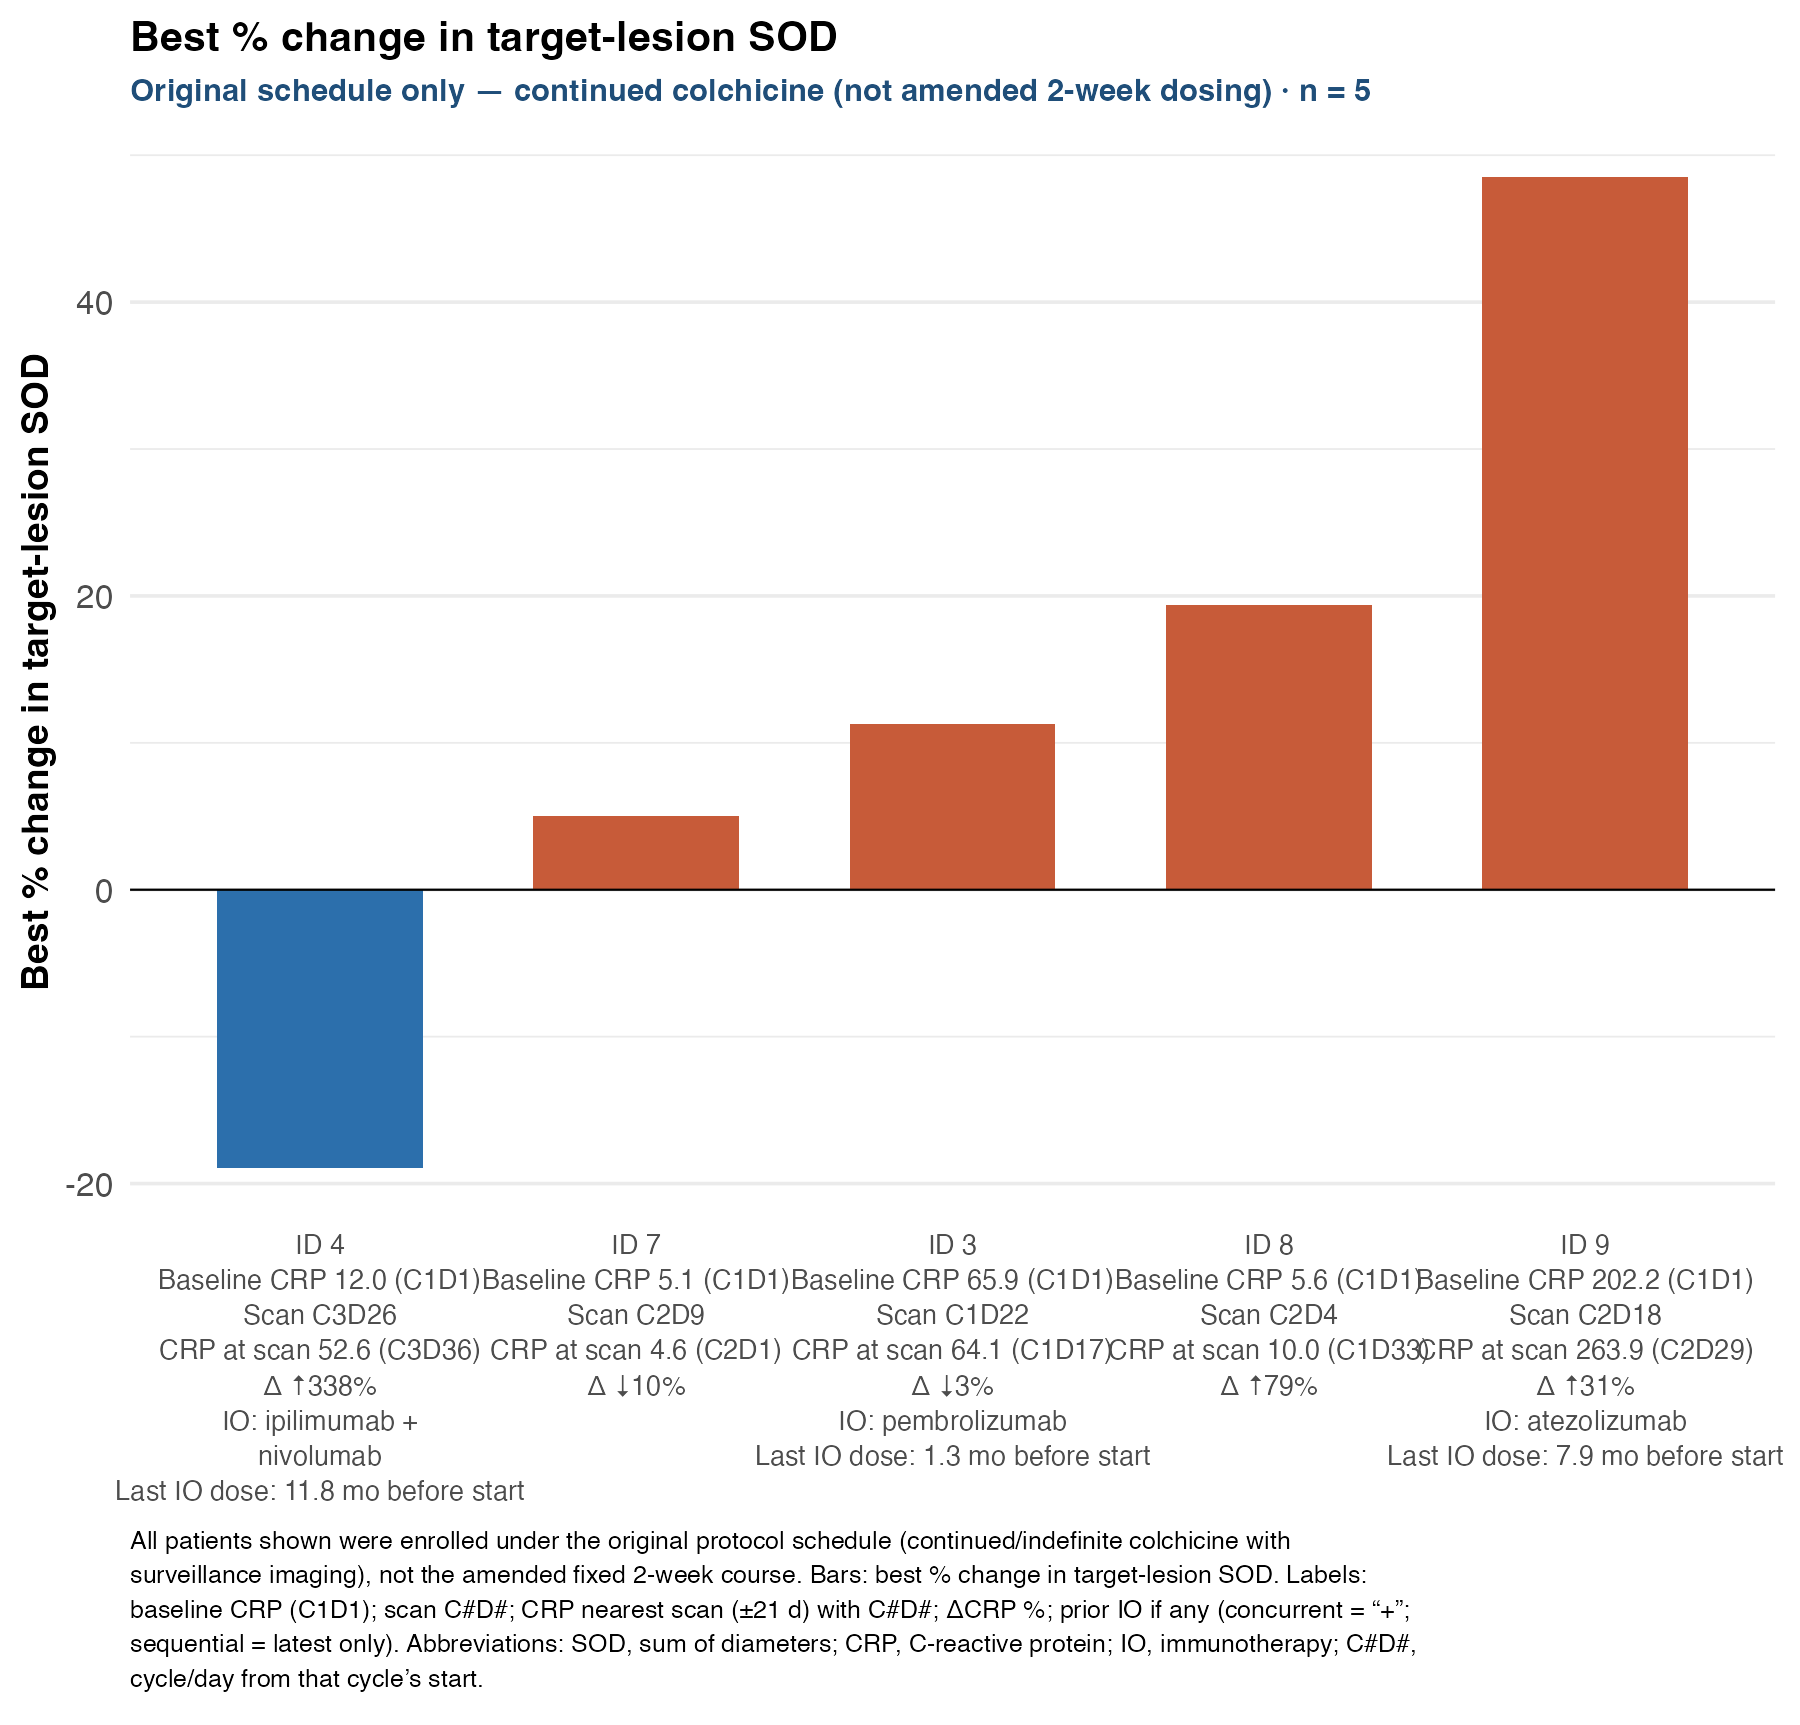
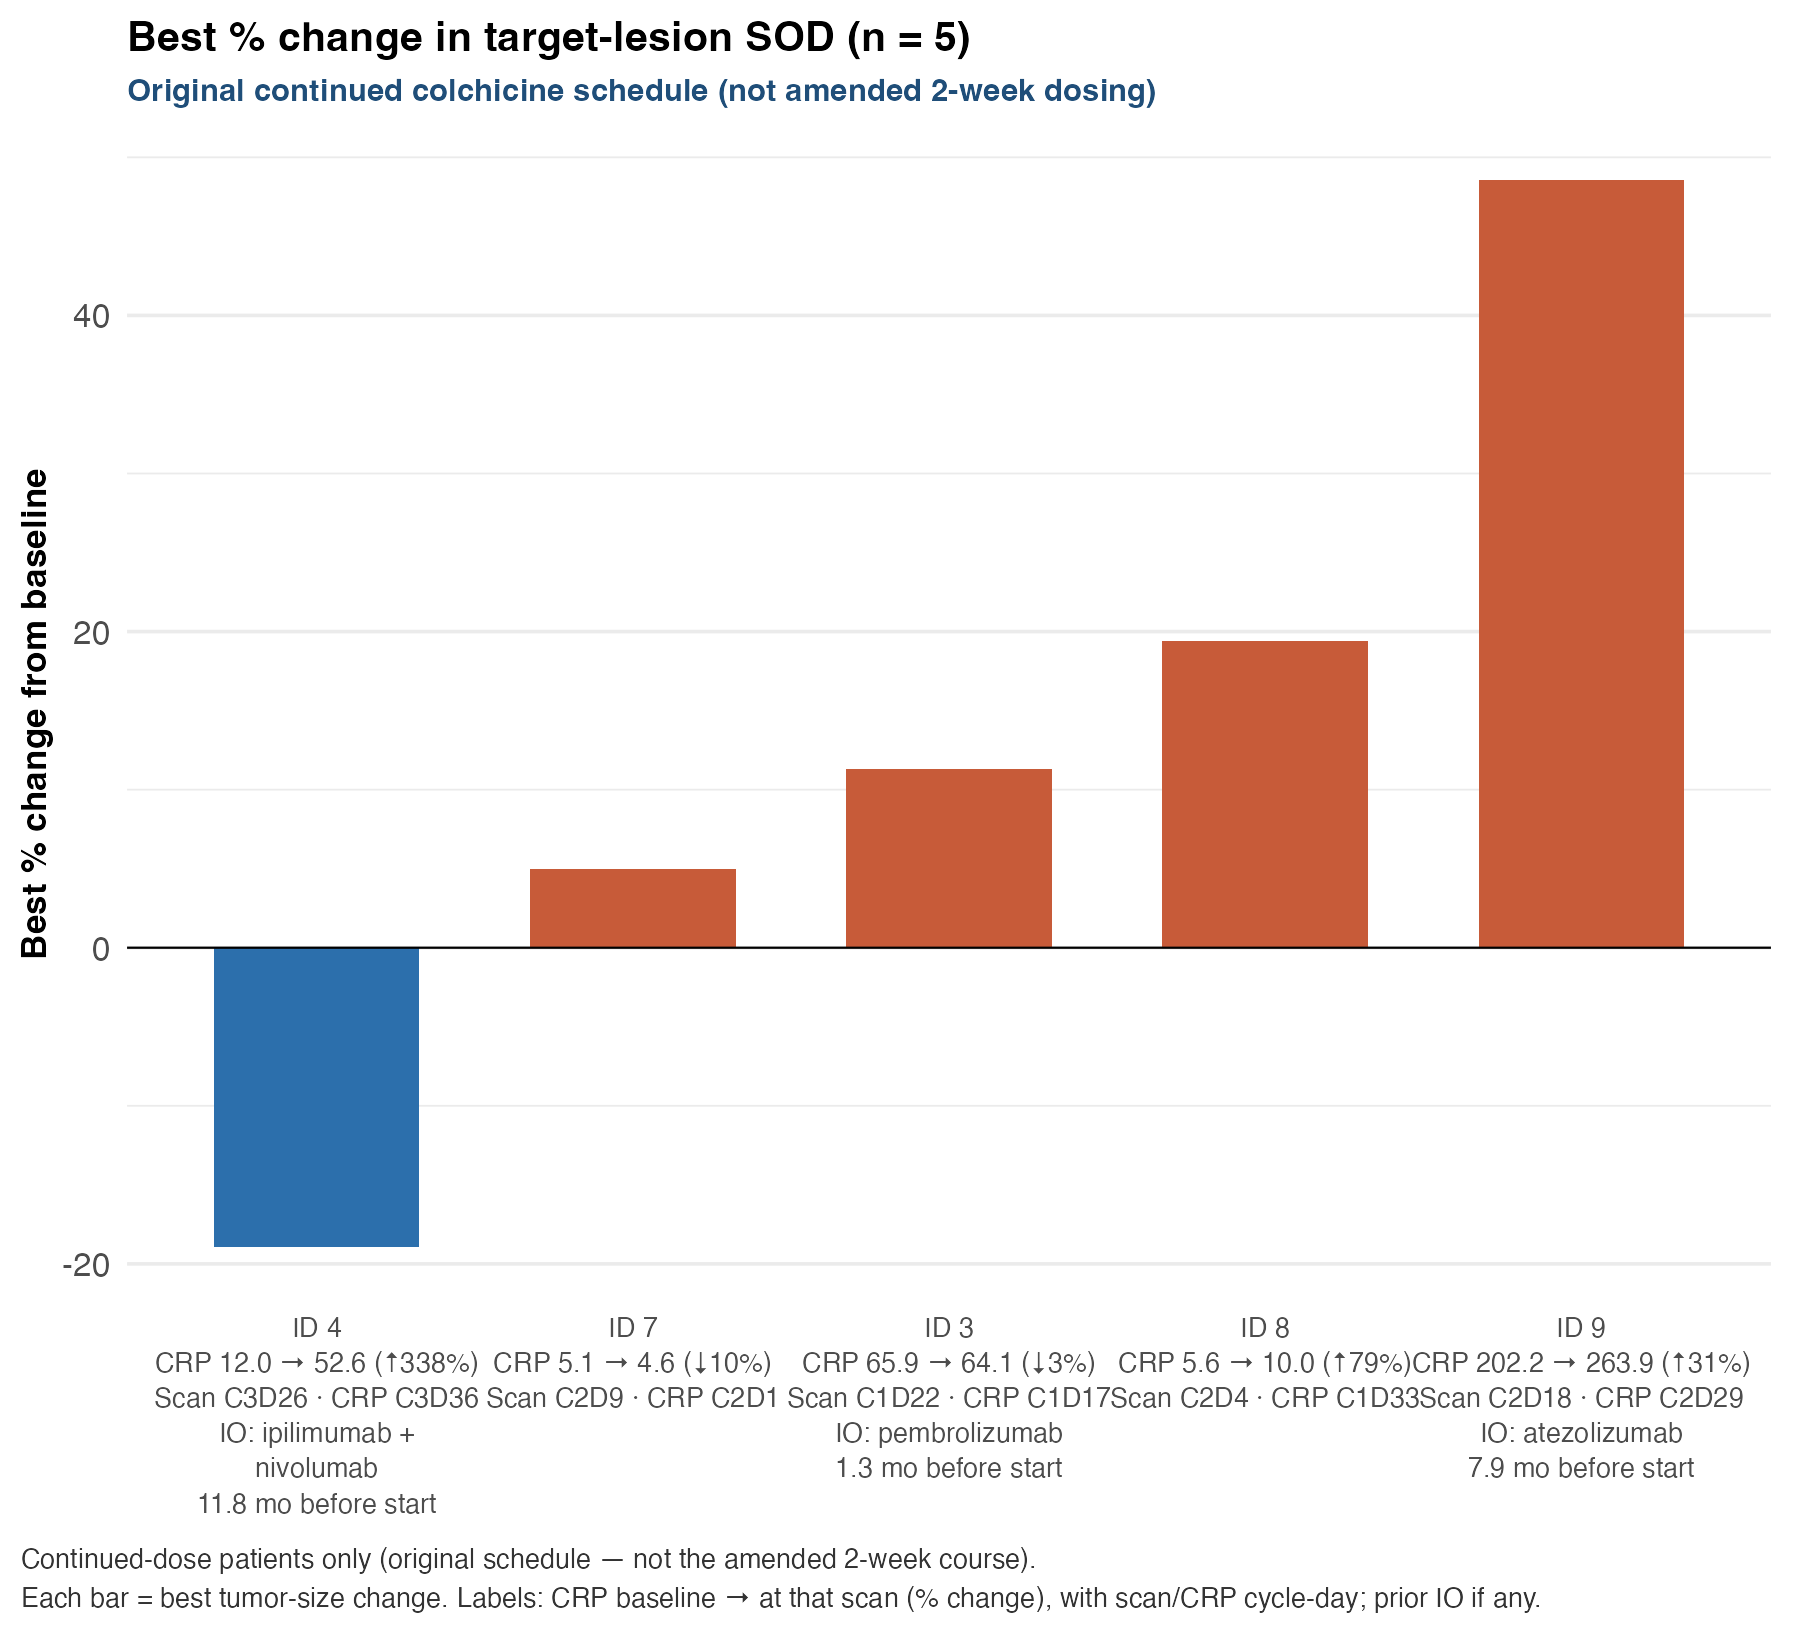
fix: simplify tumor waterfall caption and labels for a clearer story
Shorten the on-plot caption to two full-width lines, highlight continued-dose schedule, and tighten CRP/IO axis labels.

diff --git a/statistical-analysis.html b/statistical-analysis.html
@@ -1618,7 +1618,7 @@ if (nrow(crp_endpoint) &gt; 0) {
 }
 
 # =============================================================================
-# R chunk: tumor-waterfall-plot  (, fig.width = 12, fig.height = 11.5, fig.cap=fig_cap(&quot;Best percent change in target-lesion sum of diameters (SOD) from baseline among enrolled patients with ≥2 on-study scan sets (n = 5). All patients shown were treated under the original protocol schedule (continued/indefinite colchicine with surveillance imaging), not the amended fixed 2-week course. Axis labels under each Study ID show baseline CRP (C1D1), imaging cycle/day from treatment start (C#D#), CRP nearest that scan (±21 days) with its cycle/day, percent change, and prior immunotherapy (if received: concurrent agents shown with “+”; sequential lines show the latest agent only), including months from last immunotherapy dose to colchicine start. Negative SOD values indicate tumor shrinkage. Abbreviations: SOD, sum of diameters; NE, not evaluable; IO, immunotherapy; C#D#, protocol cycle and day from that cycle’s start.&quot;))
+# R chunk: tumor-waterfall-plot  (, fig.width = 12, fig.height = 11, fig.cap=fig_cap(&quot;Best percent change in target-lesion sum of diameters (SOD) among patients with ≥2 on-study scans (n = 5). All were on the original continued-colchicine schedule (not the amended 2-week course). Labels show CRP at baseline and at the best-response scan (with cycle/day) and prior immunotherapy when applicable. Abbreviations: SOD, sum of diameters; CRP, C-reactive protein; IO, immunotherapy.&quot;))
 # =============================================================================
 # Prior IO: concurrent agents joined with &quot;+&quot;; sequential lines show latest only
 io_rx_pat &lt;- &quot;(pembrolizumab|nivolumab|ipilimumab|atezolizumab|durvalumab|avelumab|cemiplimab)&quot;
@@ -1763,24 +1763,24 @@ tumor_waterfall_dat &lt;- tumor_change %&gt;%
       is.na(baseline_crp) | is.na(crp_at_imaging) | is.na(crp_pct_change_at_imaging),
       &quot;CRP NE at scan&quot;,
       paste0(
-        &quot;Baseline CRP &quot;, sprintf(&quot;%.1f&quot;, baseline_crp), &quot; (C1D1)&quot;,
-        &quot;\nScan &quot;, dplyr::coalesce(scan_cd, &quot;NE&quot;),
-        &quot;\nCRP at scan &quot;, sprintf(&quot;%.1f&quot;, crp_at_imaging),
-        &quot; (&quot;, dplyr::coalesce(crp_cd, &quot;NE&quot;), &quot;)&quot;,
-        &quot;\nΔ &quot;,
+        &quot;CRP &quot;, sprintf(&quot;%.1f&quot;, baseline_crp), &quot; → &quot;, sprintf(&quot;%.1f&quot;, crp_at_imaging),
+        &quot; (&quot;,
         if_else(
           crp_pct_change_at_imaging &gt;= 0,
           paste0(&quot;↓&quot;, sprintf(&quot;%.0f&quot;, crp_pct_change_at_imaging), &quot;%&quot;),
           paste0(&quot;↑&quot;, sprintf(&quot;%.0f&quot;, abs(crp_pct_change_at_imaging)), &quot;%&quot;)
-        )
+        ),
+        &quot;)&quot;,
+        &quot;\nScan &quot;, dplyr::coalesce(scan_cd, &quot;NE&quot;),
+        &quot; · CRP &quot;, dplyr::coalesce(crp_cd, &quot;NE&quot;)
       )
     ),
     io_lab = if_else(
       is.na(io_regimen) | io_regimen == &quot;&quot;,
       NA_character_,
       paste0(
-        &quot;IO: &quot;, stringr::str_wrap(io_regimen, width = 18),
-        &quot;\nLast IO dose: &quot;, sprintf(&quot;%.1f&quot;, months_since_last_io), &quot; mo before start&quot;
+        &quot;IO: &quot;, stringr::str_wrap(io_regimen, width = 20),
+        &quot;\n&quot;, sprintf(&quot;%.1f&quot;, months_since_last_io), &quot; mo before start&quot;
       )
     ),
     axis_lab = if_else(
@@ -1793,12 +1793,9 @@ tumor_waterfall_dat &lt;- tumor_change %&gt;%
 
 axis_lab_map &lt;- setNames(tumor_waterfall_dat$axis_lab, as.character(tumor_waterfall_dat$study_id))
 
-tumor_fig_caption &lt;- paste(
-  &quot;All patients shown were enrolled under the original protocol schedule&quot;,
-  &quot;(continued/indefinite colchicine with surveillance imaging), not the amended fixed 2-week course.&quot;,
-  &quot;Bars: best % change in target-lesion SOD. Labels: baseline CRP (C1D1); scan C#D#;&quot;,
-  &quot;CRP nearest scan (±21 d) with C#D#; ΔCRP %; prior IO if any (concurrent = “+”; sequential = latest only).&quot;,
-  &quot;Abbreviations: SOD, sum of diameters; CRP, C-reactive protein; IO, immunotherapy; C#D#, cycle/day from that cycle’s start.&quot;
+tumor_fig_caption &lt;- paste0(
+  &quot;Continued-dose patients only (original schedule — not the amended 2-week course).\n&quot;,
+  &quot;Each bar = best tumor-size change. Labels: CRP baseline → at that scan (% change), with scan/CRP cycle-day; prior IO if any.&quot;
 )
 
 if (nrow(tumor_waterfall_dat) &gt; 0) {
@@ -1811,23 +1808,32 @@ if (nrow(tumor_waterfall_dat) &gt; 0) {
       guide = &quot;none&quot;
     ) +
     labs(
-      title = &quot;Best % change in target-lesion SOD&quot;,
-      subtitle = &quot;Original schedule only — continued colchicine (not amended 2-week dosing) · n = 5&quot;,
+      title = &quot;Best % change in target-lesion SOD (n = 5)&quot;,
+      subtitle = &quot;Original continued colchicine schedule (not amended 2-week dosing)&quot;,
       x = NULL,
-      y = &quot;Best % change in target-lesion SOD&quot;,
-      caption = stringr::str_wrap(tumor_fig_caption, width = 115)
+      y = &quot;Best % change from baseline&quot;,
+      caption = tumor_fig_caption
     ) +
     theme_minimal(base_size = 18) +
     theme(
       panel.grid.major.x = element_blank(),
       plot.title = element_text(size = 20, face = &quot;bold&quot;, hjust = 0),
       plot.subtitle = element_text(size = 15, face = &quot;bold&quot;, color = &quot;#1F4E79&quot;, hjust = 0),
-      plot.caption = element_text(size = 12, hjust = 0, lineheight = 1.15, margin = margin(t = 12)),
-      axis.title.y = element_text(size = 18, face = &quot;bold&quot;),
+      plot.caption.position = &quot;plot&quot;,
+      plot.caption = element_text(
+        size = 13,
+        hjust = 0,
+        lineheight = 1.2,
+        margin = margin(t = 14),
+        color = &quot;#333333&quot;
+      ),
+      axis.title.y = element_text(size = 17, face = &quot;bold&quot;),
       axis.text.y = element_text(size = 16),
       axis.text.x = element_text(size = 13, lineheight = 1.08, vjust = 1),
-      plot.margin = margin(10, 12, 16, 10)
-    )
+      plot.margin = margin(10, 14, 18, 10)
+    ) +
+    # Force caption to wrap across nearly full figure width
+    ggplot2::coord_cartesian(clip = &quot;off&quot;)
 } else {
   plot.new()
   text(0.5, 0.5, &quot;No evaluable tumor-change data&quot;)